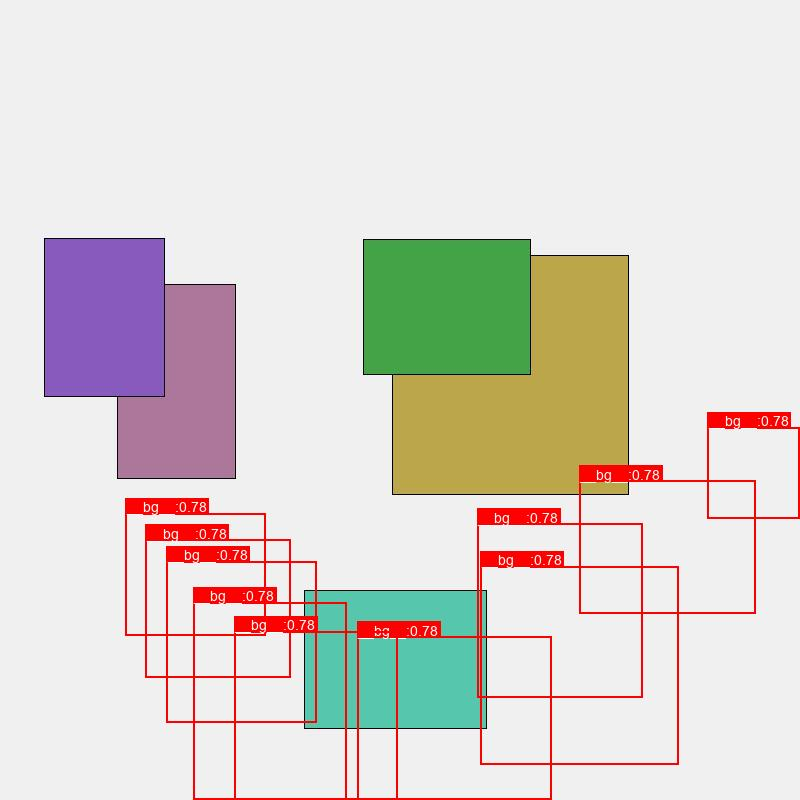
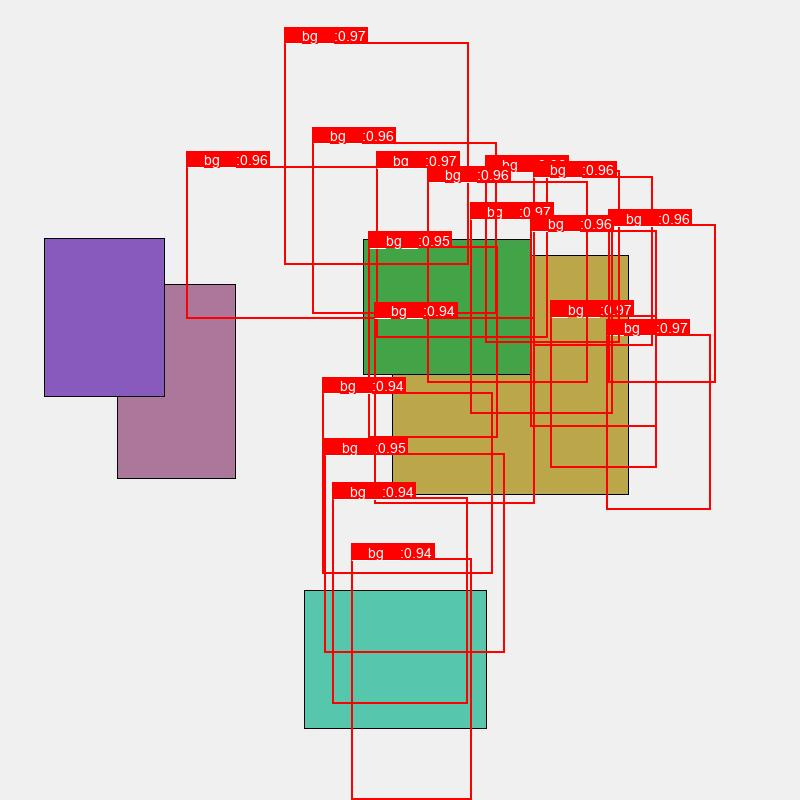
litev3

diff --git a/train_lite.py b/train_lite.py
@@ -1,4 +1,5 @@
 import argparse
+from math import floor
 import os
 import sys
 import csv
@@ -9,8 +10,11 @@ import torch
 from torch.utils.data import DataLoader
 import torchvision.transforms as T
 
+# 添加MultiStepLR调度器
+from torch.optim.lr_scheduler import MultiStepLR
+
 # Ensure root is on path to import shared modules
-sys.path.append(os.path.dirname(os.path.dirname(__file__)))
+sys.path.append(os.path.dirname(__file__))
 
 from sparsercnn_lite import SparseRCNNLite
 from data_synth import SynthRectDataset
@@ -55,13 +59,13 @@ def train_one_epoch(model: SparseRCNNLite, optimizer: torch.optim.Optimizer,
     running_parts = {}
     t0 = time.time()
     for i, (images, targets) in enumerate(data_loader):
-        images = [_to_tensor_image(img).to(device) for img in images]
-        targets = [{k: v.to(device) for k, v in t.items()} for t in targets]
+        images = [_to_tensor_image(img).to(device, non_blocking=True) for img in images]
+        targets = [{k: v.to(device, non_blocking=True) for k, v in t.items()} for t in targets]
 
         loss_dict = model._forward(images, targets)
         loss = sum(loss for loss in loss_dict.values())
 
-        optimizer.zero_grad()
+        optimizer.zero_grad(set_to_none=True)
         loss.backward()
         optimizer.step()
 
@@ -135,6 +139,26 @@ def main():
     # Optimizer
     optimizer = torch.optim.AdamW(model.parameters(), lr=args.lr)
 
+    # LR scheduler (MultiStepLR): decay at ~75% and ~90% of total epochs.
+    # NOTE: We call scheduler.step() at the END of each epoch, so an epoch number E
+    # corresponds to scheduler milestone (E-1).
+    scheduler = None
+    if args.epochs >= 2:
+        desired_epochs = [
+            int(round(args.epochs * 0.75)),
+            int(round(args.epochs * 0.90)),
+        ]
+        # clamp to [1, epochs-1] and unique
+        desired_epochs = sorted({max(1, min(args.epochs - 1, e)) for e in desired_epochs})
+        milestones = [e - 1 for e in desired_epochs]
+        if len(milestones) > 0:
+            scheduler = MultiStepLR(optimizer, milestones=milestones, gamma=0.1)
+            print(f"MultiStepLR enabled. Decay after epochs: {desired_epochs} (milestones={milestones}, gamma=0.1)")
+        else:
+            print("MultiStepLR disabled (no valid milestones).")
+    else:
+        print("MultiStepLR disabled (epochs < 2).")
+
     # DataLoaders
     train_loader = build_dataloader(args.data_root, "train", args.batch_size, args.num_workers)
 
@@ -150,8 +174,8 @@ def main():
                 # Peek one batch to derive header keys
                 model.train()
                 images, targets = next(iter(train_loader))
-                images = [_to_tensor_image(img).to(device) for img in images]
-                targets = [{k: v.to(device) for k, v in t.items()} for t in targets]
+                images = [_to_tensor_image(img).to(device, non_blocking=True) for img in images]
+                targets = [{k: v.to(device, non_blocking=True) for k, v in t.items()} for t in targets]
                 with torch.no_grad():
                     loss_dict = model._forward(images, targets)
                 part_keys = sorted(loss_dict.keys())
@@ -183,6 +207,13 @@ def main():
                 csv_writer=_EveryNWriter(csv_writer, every=max(1, int(args.csv_every))),
                 csv_flush=True,
             )
+
+            # 每个 epoch 结束后更新学习率
+            if scheduler is not None:
+                scheduler.step()
+            current_lr = optimizer.param_groups[0]["lr"]
+            print(f"Epoch {epoch} completed. Current LR: {current_lr:.6f}")
+
             csv_f.flush()
     finally:
         try:

diff --git a/sparsercnn_lite/config.py b/sparsercnn_lite/config.py
@@ -23,7 +23,7 @@ class SparseRCNNLiteCfg:
     class_weight: float = 1.0
     l1_weight: float = 5.0
     giou_weight: float = 2.0
-    no_object_weight: float = 0.1
+    no_object_weight: float = 1.0
     deep_supervision: bool = True
     # Input
     pixel_mean: tuple = (123.675, 116.28, 103.53)  # ImageNet

diff --git a/README.md b/README.md
@@ -44,6 +44,8 @@ python data_synth.py `
 ### 训练（Lite）
 
 - 纯 PyTorch 训练脚本：`train_lite.py`
+> 已将no_object_weight由0.1设置为1.0
+> 添加学习率衰减
 
 ```powershell
 python train_lite.py `
